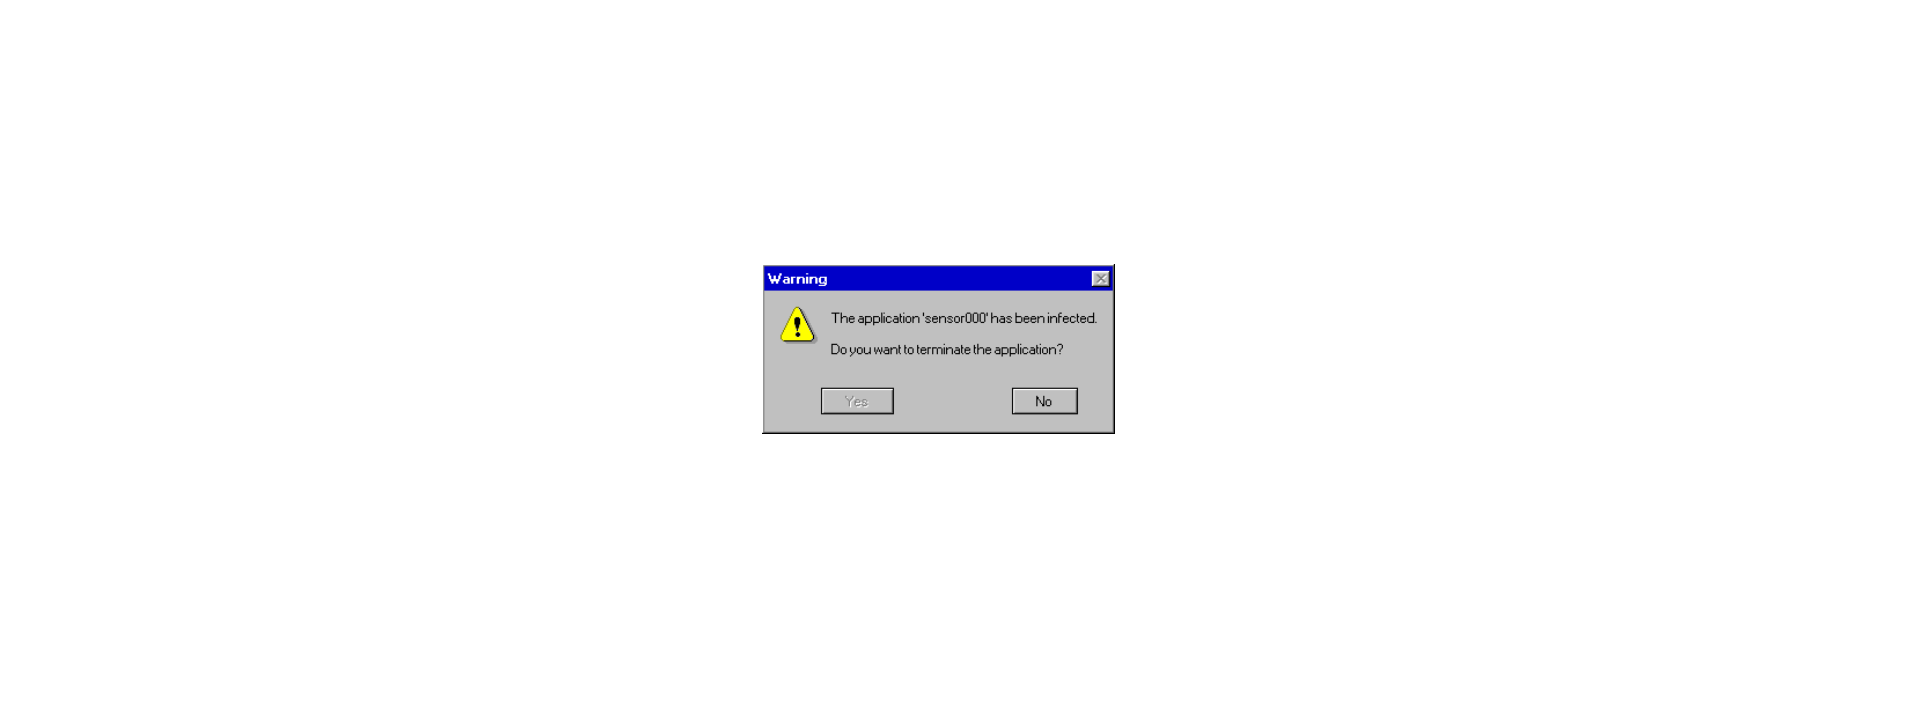
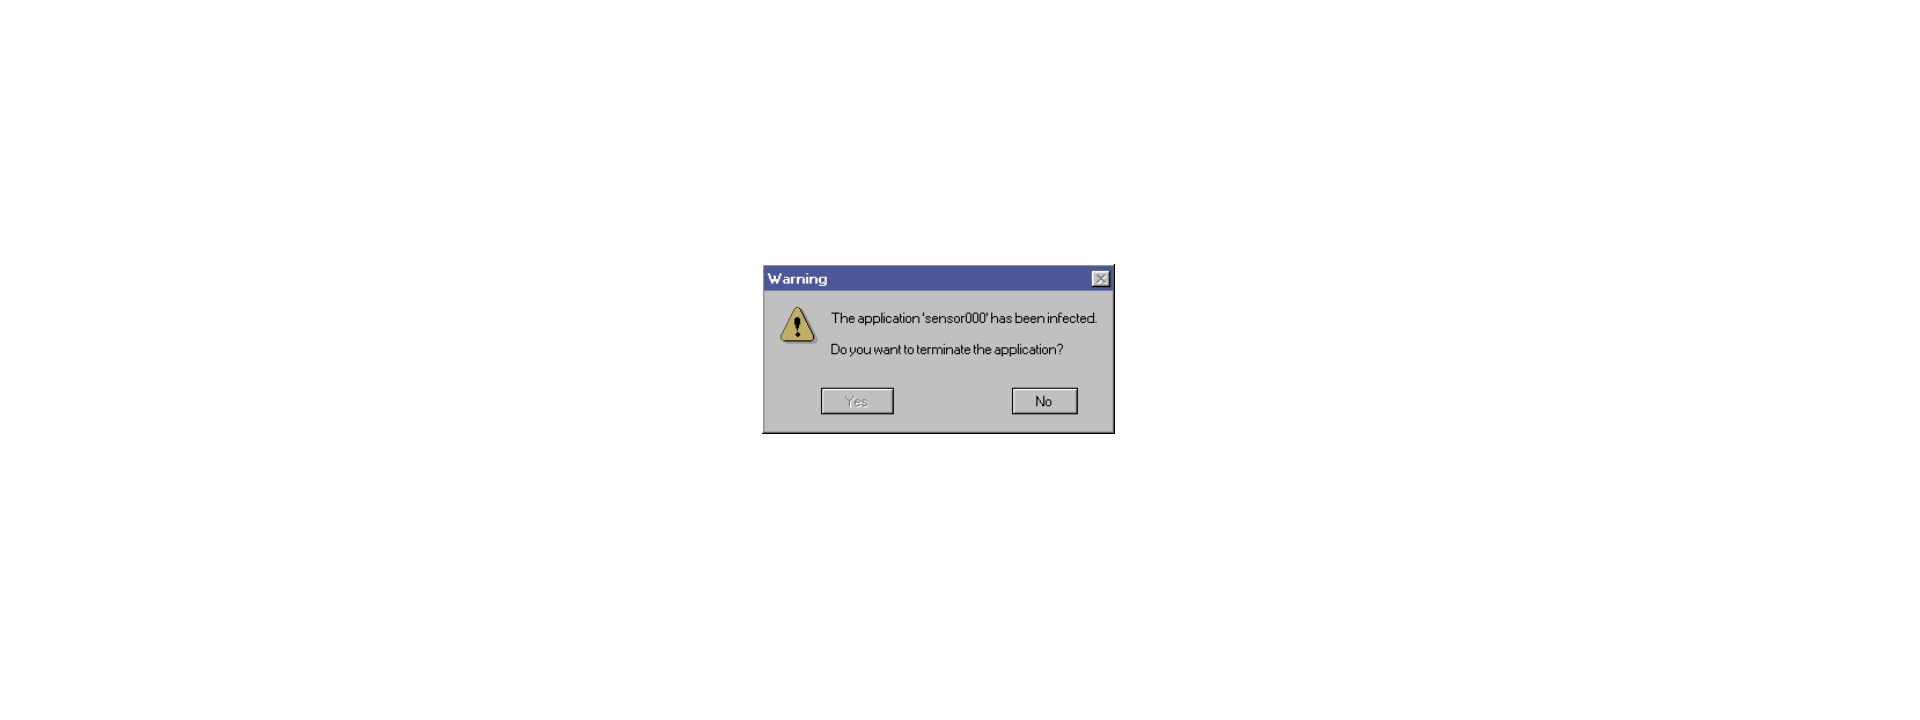
Changed text and saturated image

Changed region(s): [[0.375, 0.3667, 0.5938, 0.4889]]

diff --git a/src/org/toby/sensor/TextOverlay.java b/src/org/toby/sensor/TextOverlay.java
@@ -46,7 +46,7 @@ class TextOverlay {
     parent.textSize(48); // medium text
     parent.fill(255); // white
     parent.text(bodies, SET_WIDTH-70, HEIGHT_CUT+70);
-    parent.text(phase, SET_WIDTH-70, HEIGHT_CUT+140);
+    //    parent.text(phase, SET_WIDTH-70, HEIGHT_CUT+140);
   }
 
   void addFaceText(KinectPV2 kinect, int phase) {
@@ -65,9 +65,9 @@ class TextOverlay {
       }
       ArrayList<String> stat = new ArrayList<>();
       stat.add(String.valueOf(color % 4 + 1));
-      stat.add(String.valueOf(color / 57 % 101));
-      stat.add(String.valueOf((color / 43 % 121)));
-      stat.add(String.valueOf((color / 23 % 201) - 100));
+      stat.add(String.valueOf(color / 57 % 121));
+      stat.add(String.valueOf((color / 43 % 101)));
+      stat.add(String.valueOf((color / 23 % 151) - 50));
       stats.add(stat);
     }
     for (int k = 0; k < skeletonArray.size(); k++) {
@@ -100,9 +100,9 @@ class TextOverlay {
 
         parent.text(
           "Class: " + maybeZero.get(0) + "\n" +
-            "Deception: " + maybeZero.get(1) + "%\n" +
-            "Opposition: " + maybeZero.get(2) + "%\n" +
-            "Convergence: " + maybeZero.get(3) + "%",
+            "Threat: " + maybeZero.get(1) + "%\n" +
+            "Influence: " + maybeZero.get(2) + "%\n" +
+            "Vulnerability: " + maybeZero.get(3) + "%",
           headX + (1950 - headX) / 9, headY - 250);
       } catch (Exception e) {
         break;
